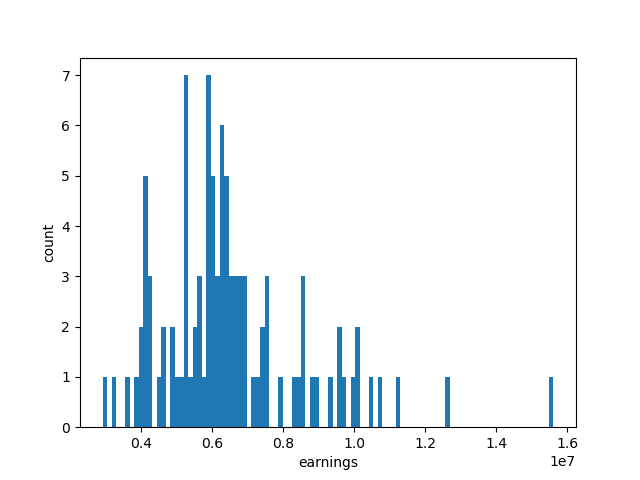
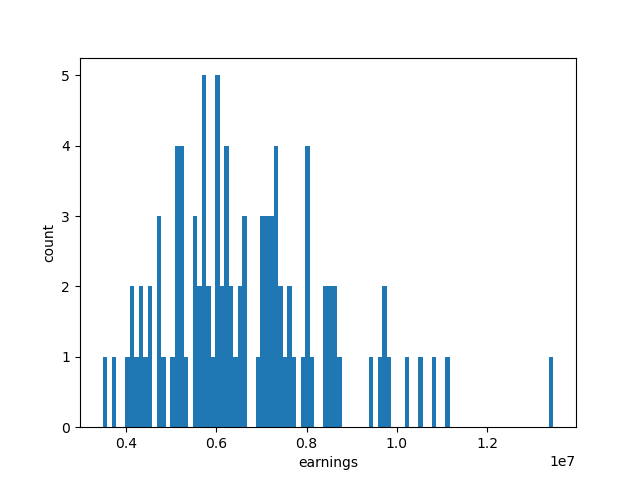
the cost of an attack now considers posture. Magic scalar is 0.856, and at mu=0.28 the probability of an attack being worth it is 0.995. As posture increases, the probability that the gain outweights the cost of attack decreases. Once the mean posture is 1/(S+1) - 0.54, it is no longer worth it to a

diff --git a/parameters/scripts/simulate_attackers_earnings.py b/parameters/scripts/simulate_attackers_earnings.py
@@ -33,9 +33,9 @@ wealths = wealths * 10**9
 
 postures = np.random.normal(loc=expected_posture_mu, scale=expected_posture_stddev, size=num_attacks)
 
-target_rc_ratio = 0.33
+target_rc_ratio = 0.333
 
-MAGIC_SCALAR = target_rc_ratio * (1 - expected_posture_mu)
+MAGIC_SCALAR = target_rc_ratio * (1 - expected_posture_mu) / expected_posture_mu
 
 
 
@@ -45,7 +45,7 @@ ransom_exp = 0.254
 
 ransoms = ransom_base * wealths ** ransom_exp
 
-costs_to_attack = [MAGIC_SCALAR * x for x in ransoms]
+costs_to_attack = [MAGIC_SCALAR * x[0] * x[1] for x in zip(ransoms, postures)]
 # f.write(costs_to_attack)
 total_costs_to_attack = np.sum(costs_to_attack)
 total_revenue = np.sum(ransoms[0: num_success_attacks])
@@ -54,7 +54,7 @@ f.write("sample revenue: {:e}\n".format(total_revenue))
 f.write("sample costs: {:e}\n".format(total_costs_to_attack))
 
 
-f.write("sample R/C = {}\n".format(total_costs_to_attack/total_revenue))
+f.write("sample C/R = {}\n".format(total_costs_to_attack/total_revenue))
 f.write("")
 
 
@@ -81,15 +81,15 @@ f.write("")
 # f.write("analytic_revenue: {:e}\n".format(analytic_revenue))
 # f.write("analytic_costs:{:e}\n".format(analytic_costs))
 # f.write("analytic_rc_ratio: {}\n".format(analytic_rc_ratio))
-# f.write("analytic_magic_scalar: {}\n".format(analytic_magic_scalar))
+f.write("MAGIC_SCALAR: {}\n".format(MAGIC_SCALAR))
 
-f.write("Pr[E[gain] > E[cost]] = Pr[Posture < 1 - S]  = {}\n".format( norm.cdf((1 - MAGIC_SCALAR), loc=expected_posture_mu, scale=expected_posture_stddev )))
+f.write("Pr[gain > cost] = Pr[(1-Posture) > MAGIC_SCALAR * Posture]  = {}\n".format( norm.cdf(1/(1 + MAGIC_SCALAR), loc=expected_posture_mu, scale=expected_posture_stddev )))
 
 f.write("\n")
 f.write("Example cost_to_attacks:\n")
 for i in range(100):
     expected_loot = ransoms[i] * (1 - expected_posture_mu) 
-    expected_cost_to_attack = MAGIC_SCALAR * ransoms[i]
+    expected_cost_to_attack = MAGIC_SCALAR * ransoms[i] * postures[i]
     worth_attacking = "YES" if expected_loot > expected_cost_to_attack else "NO"
     have_enough = "YES" if expected_cost_to_attack < attackers_wealths[i] else "NO"
     fstring = "  -- wealth = {:.2e}\t posture = {}\t\t expected cost to attack = {:.2e}\t ransom = {:.2e}\t expected_loot = {:2e}\t worth attacking? {}\t have_enough? {}\n".format(wealths[i], round(postures[i],2), expected_cost_to_attack, ransoms[i], expected_loot, worth_attacking, have_enough)
